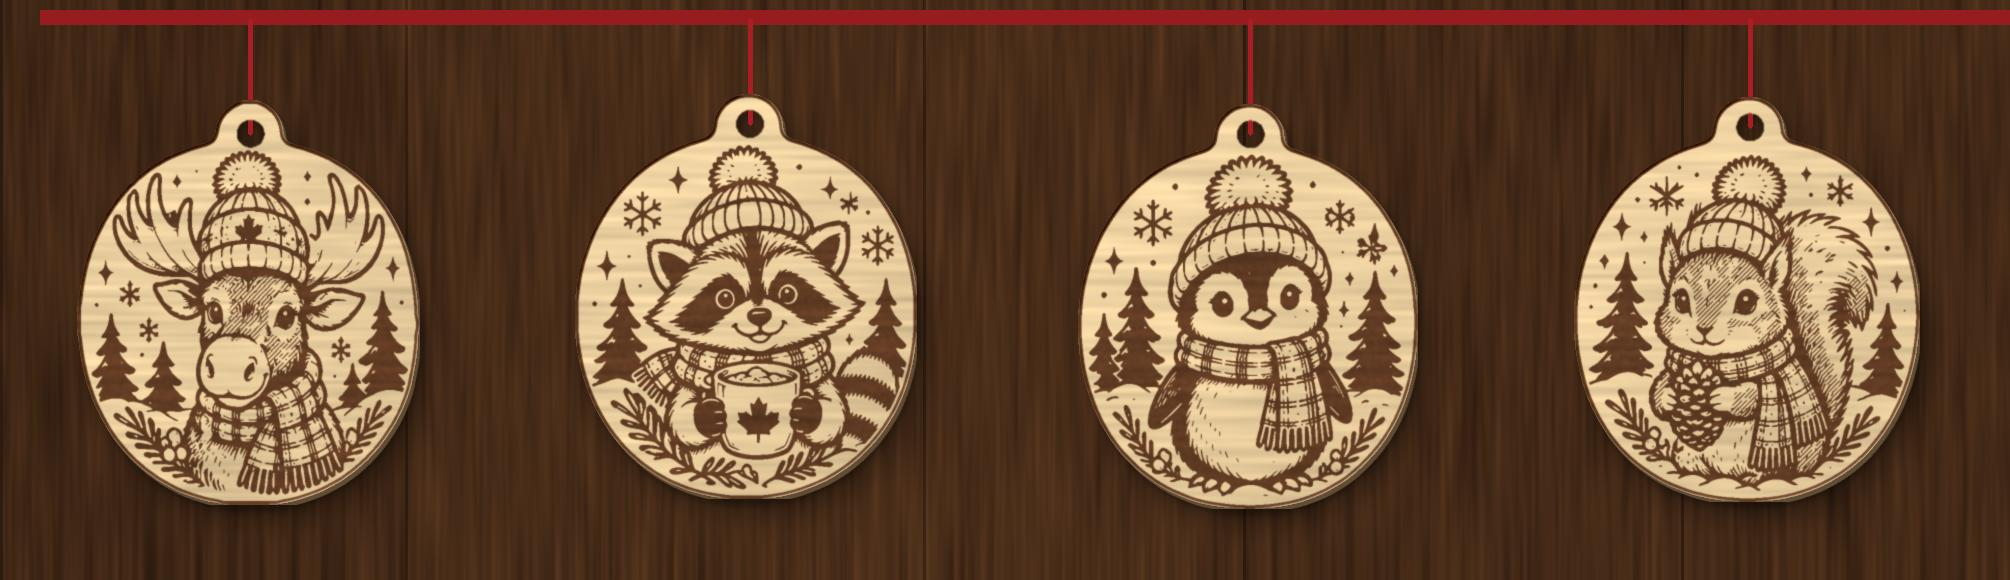
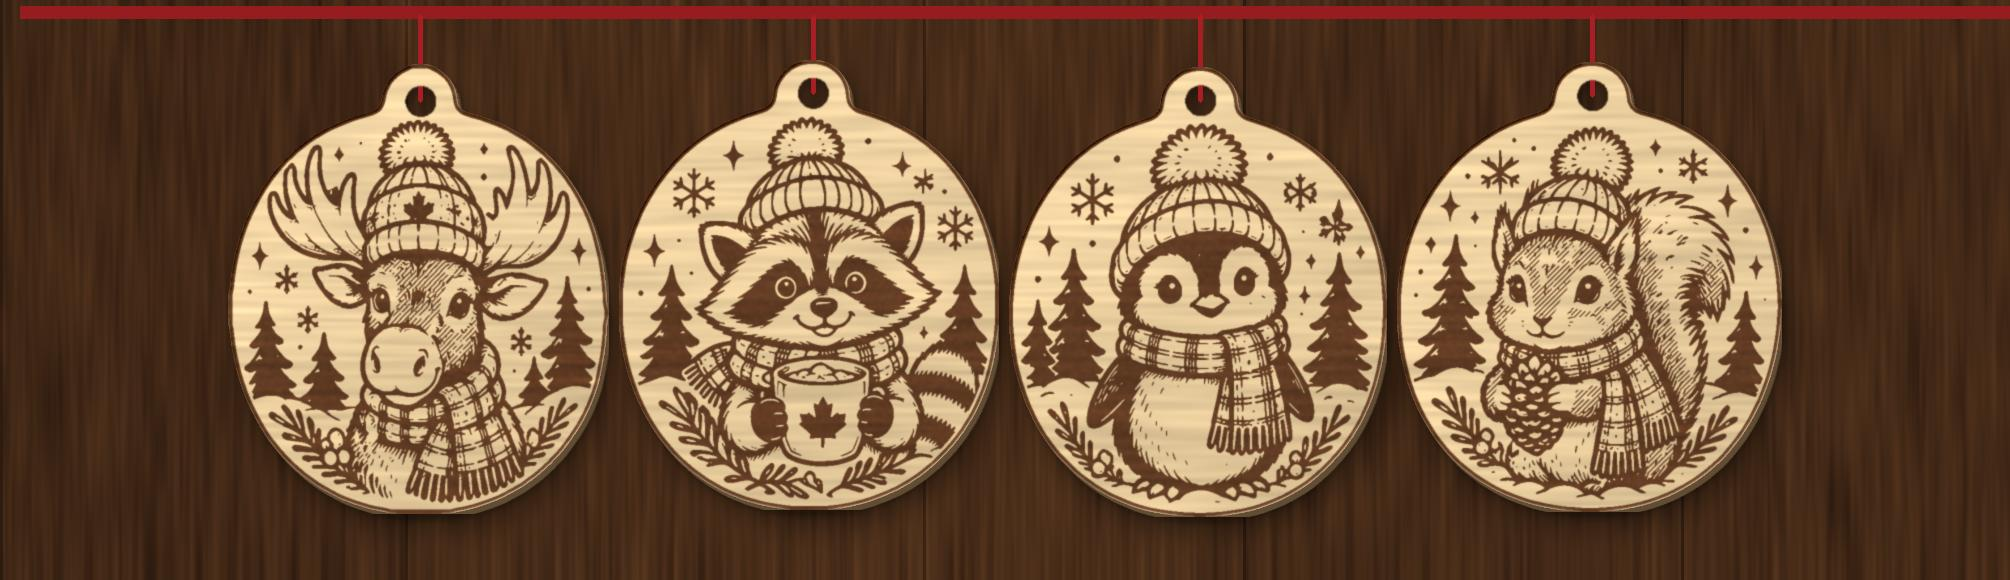
Boules animaux: boules rapprochées et agrandies (450/580)

diff --git a/index.html b/index.html
@@ -74,7 +74,7 @@
 <div class="hint" data-i18n="noel_pay">Paiement sécurisé par Stripe.</div>
 </div></div></div>
 <div class="container noel" id="animaux"><div class="noel-card">
-<div class="noel-img"><img src="/img/boules-animaux.jpg?v=4" width="2010" height="580" alt="Boules de Noël gravées au laser : orignal, raton, pingouin et écureuil" data-i18n-alt="an_alt" loading="lazy"><div class="noel-cap" data-i18n="noel_cap">Aperçu des motifs (rendu, pas une photo)</div></div>
+<div class="noel-img"><img src="/img/boules-animaux.jpg?v=5" width="2010" height="580" alt="Boules de Noël gravées au laser : orignal, raton, pingouin et écureuil" data-i18n-alt="an_alt" loading="lazy"><div class="noel-cap" data-i18n="noel_cap">Aperçu des motifs (rendu, pas une photo)</div></div>
 <div class="noel-body">
 <div class="noel-tag" data-i18n="an_tag">Temps des Fêtes 2026</div>
 <h2 data-i18n="an_t">Boules de Noël gravées — ensemble de 4 animaux</h2>
